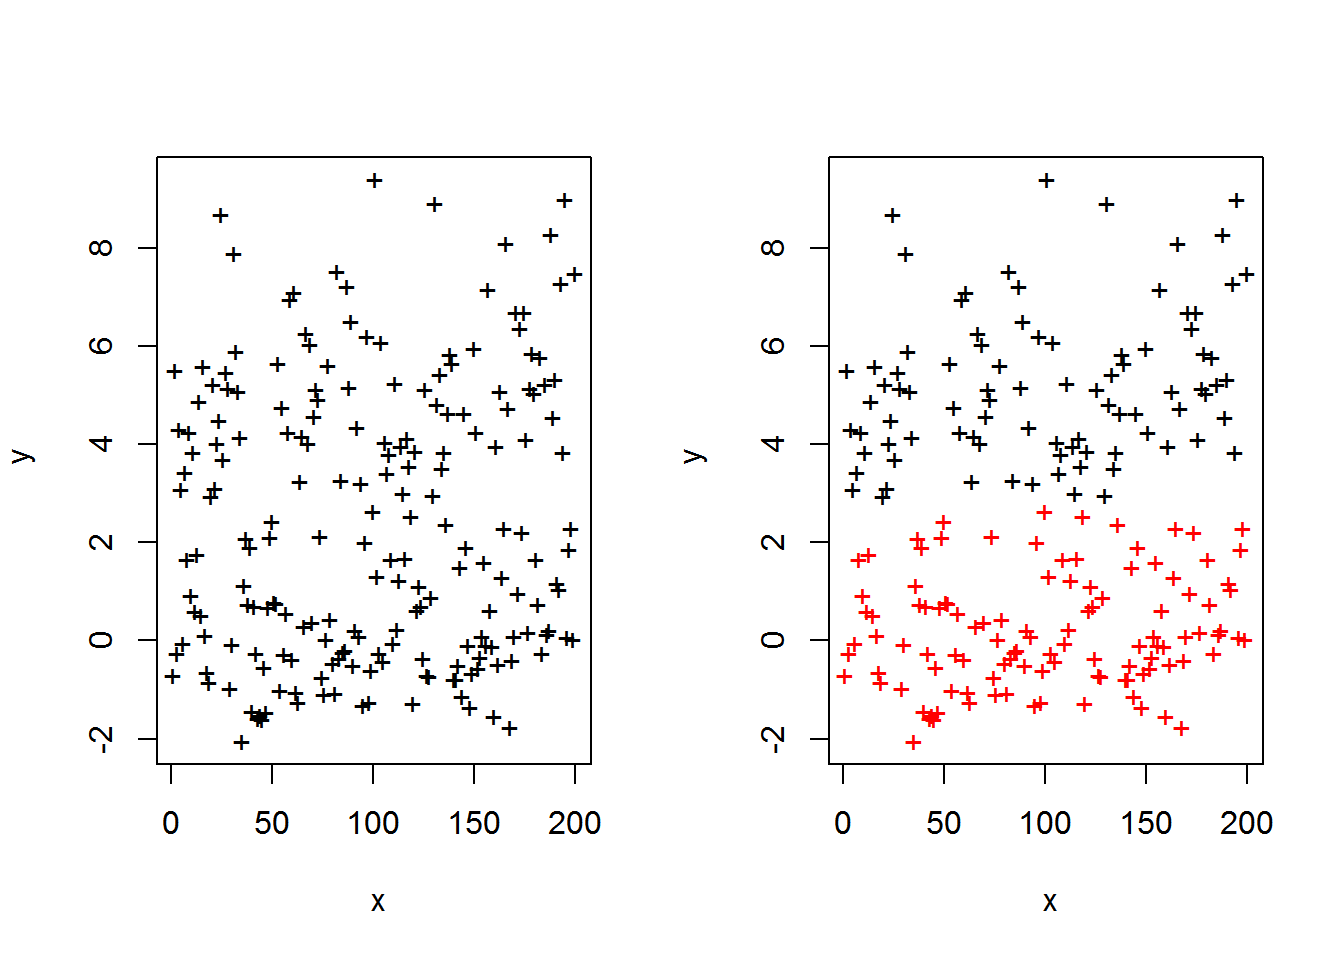
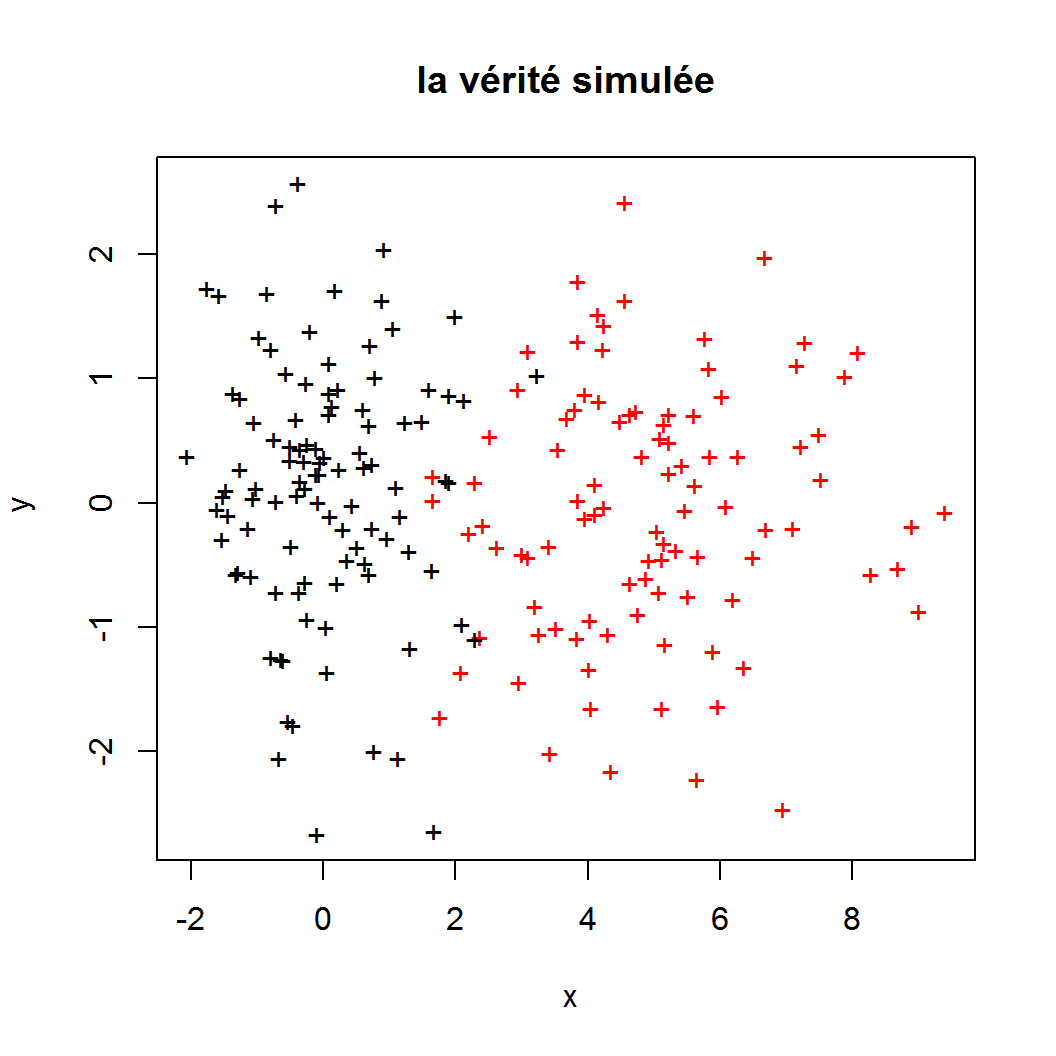
ajout exemple

diff --git a/exemple.html b/exemple.html
@@ -352,10 +352,21 @@ $(document).ready(function () {
 
 
 <p>exemple: classification des points dans le plan</p>
-<p>Dans cette partie nous allons parler d’un problème de classification. IL y’as deux tireur qui font des impacts de balle dans un mur. l’algorithme ci dessous détecte la provenances des impacts de balles; On considère un tireur qui aura ses balles en noirs et un autre avec des balles en rouges. L’algorithme à 5.5% de chance de se tromper. Comme on peut voir sur le graphique, il ne sufit que d’une seule dimension pour distinguer le milieu des impacts de balles(Y)</p>
+<p>Dans cette partie, nous simulons des impacts de balles provenant de deux tireurs différents. Nous présentons une procédure de détection des impacts de chaque tireurs. Cela revient à mettre une couleur noir ou rouge sur chaque impact où chaque couleur caractérise un tireur. Le bloc de code suivant propose de simuler 200 impacts sur un mur. Ces lignes de code ont été réalisées sous le logiciel libre <a href="https://cran.r-project.org/"></a>. Les principaux éléments de ce codes correspondent à</p>
+<ul>
+<li>l’instruction <code>set.seed(123)</code> permet de rendre l’expérience de simulation reproductible</li>
+<li>l’objet intitulé <code>rmixture</code> qui simule les impacts de balles où
+<ul>
+<li><code>n</code> est l’agrument qui contrôle le nombre d’impacts à simuler</li>
+<li><code>delta</code> contrôle la différence entre les impacts des deux tireurs</li>
+<li><code>d.disc</code> est le nombe de dimensions discriminantes (une seule dans notre exemple)</li>
+<li><code>d.nondisc</code> est le nombe de dimensions non-discriminantes (une seule dans notre exemple)</li>
+</ul></li>
+</ul>
+<p>Dans la suite, nous allons utiliser le terme <em>étiquette</em> pour désigner les couleurs rouge et noir qui permettent de distinguer les impacts d’un tireur de ceux de l’autre. On propose de cacher la vérité qui correspond aux étiquettes rouges et noirs des impacts et nous allons faire appel à une procédure de détection appelée <strong>algorithme des k-moyennes</strong>.</p>
 <pre class="r"><code>set.seed(123)
 # Fonction de generation des donnees
-rmixture &lt;- function(n=100, delta=2, d.disc=2, d.nondisc=0){
+rmixture &lt;- function(n, delta, d.disc, d.nondisc){
   z &lt;- sample(1:2, n, replace = TRUE)
   x &lt;- matrix(rnorm(n*(d.disc+d.nondisc)), n)
   x[which(z==2), 1:d.disc] &lt;- x[which(z==2), 1:d.disc]*2 + delta
@@ -364,22 +375,40 @@ rmixture &lt;- function(n=100, delta=2, d.disc=2, d.nondisc=0){
 
 
 ech &lt;- rmixture(n=200, delta=5, d.disc = 1, d.nondisc = 1)
-par(mfrow=c(1,2))
-plot(ech$x[,1], ech$ech[,2], pch=&quot;+&quot;, xlab=~x, ylab=~y)
-#plot(ech$x[,1], ech$ech[,2], pch=&quot;+&quot;, col=ech$z, xlab=~x, ylab=~y)
+plot(ech$x[,1], ech$x[,2], pch=&quot;+&quot;, col=ech$z, xlab=~x, ylab=~y, main=&quot;la vérité simulée&quot;)</code></pre>
+<p><img src="exemple_files/figure-html/unnamed-chunk-1-1.png" width="528" /></p>
+<p>L’algorithme des k-moyennes peut être résumé par les 4 étapes suivantes :</p>
+<ol style="list-style-type: decimal">
+<li><p>On choisit deux points moyens au hasard, un rouge et un noir.</p></li>
+<li><p>On affecte une étiquette rouges aux points les plus proches du point rouge et une étiquette noir aux points les plus proches du point noir;</p></li>
+<li><p>On calcule les coordonnées moyennes des points rouges et les coordonnées moyennes des points noirs qui vont jouer le rôle des deux points moyens rouge et noir.</p></li>
+<li><p>On répete l’etape 2 et 3 jusqu’à ce que les deux points moyens rouge et noir se stabilisent et ne bougent plus.</p></li>
+</ol>
+<!-- L’algorithme ci dessous détecte la provenances des impacts de balles; On considère un tireur qui aura ses balles en noirs et un autre avec des balles en rouges. L’algorithme à 5.5% de chance de se tromper. Comme on peut voir sur le graphique, il ne suffit que d'une seule dimension pour distinguer le milieu des impacts de balles(Y) -->
+<!-- grâce à l'algorithme on peut aussi savoir quel est le côté discriminant et le aussi nombre de tireur. -->
+<p>Le bloc de code suivant permet de mettre en place la procédure des kmoyennes sur les 200 impacts simulés précédemment</p>
+<pre class="r"><code>par(mfrow=c(1,2))
+plot(ech$x[,1], ech$x[,2], pch=&quot;+&quot;, xlab=~x, ylab=~y, main=&quot;étiquettes cachées&quot;)
 detect &lt;- kmeans(ech$x, 2, nstart = 100)
-plot(ech$x[,1], ech$ech[,2], pch=&quot;+&quot;, col = detect$cluster,xlab=~x, ylab=~y)</code></pre>
-<p><img src="exemple_files/figure-html/unnamed-chunk-1-1.png" width="672" /></p>
+plot(ech$x[,1], ech$x[,2], pch=&quot;+&quot;, col = detect$cluster,
+     xlab=~x, ylab=~y, main=&quot;étiquettes attribuées&quot;)</code></pre>
+<p><img src="exemple_files/figure-html/unnamed-chunk-2-1.png" width="672" /></p>
 <pre class="r"><code>min(mean(ech$z!=detect$cluster), 1-mean(ech$z!=detect$cluster))</code></pre>
 <pre><code>## [1] 0.055</code></pre>
-<p>Voici un autre algorithme, qui lui sépare les spirales, une en rouge et une en noir. C’est un autre algorithme car l’uatre ne peut pas séparer les spirales, ils les coupent en leur milieu. Comme on peut voir sur le graphique, on ne peut pas savoir combien de personne il y’as sur le graphique</p>
+<p>Comme on peut le constacter, l’affectation des couleurs des étiquettes se fait à une permutation près. L’algorithme des k-moyennes se trompes dans l’étiquetage de <span class="math inline">\(5.5\%\)</span> des impacts.</p>
+<p>On Utilise maintenat une autre figure ci dessous. on peut voir deux formes distinct. On essaye maitenant de la séparer avec Kmoyenne</p>
 <pre class="r"><code>require(kernlab)</code></pre>
 <pre><code>## Loading required package: kernlab</code></pre>
 <pre class="r"><code>data(spirals)
+plot(spirals, xlab=~x, ylab=~y, main=&quot;deux spirales&quot;)</code></pre>
+<p><img src="exemple_files/figure-html/unnamed-chunk-3-1.png" width="528" /></p>
+<p>Comme on peut voir Kmoyenne, échoue complétement complétement en séparant les spirales en leur milieu.* On utilise alors specc et comme on peut voir sur l’image, arrive à séparer les spirales.</p>
+<pre class="r"><code>require(kernlab)
+data(spirals)
 par(mfrow=c(1,2))
 plot(spirals, col = kmeans(spirals, 2)$cluster, xlab=~x, ylab=~y )
 plot(spirals, col = specc(spirals, 2), xlab=~x, ylab=~y)</code></pre>
-<p><img src="exemple_files/figure-html/unnamed-chunk-2-1.png" width="672" /></p>
+<p><img src="exemple_files/figure-html/unnamed-chunk-4-1.png" width="672" /></p>
 
 
 
